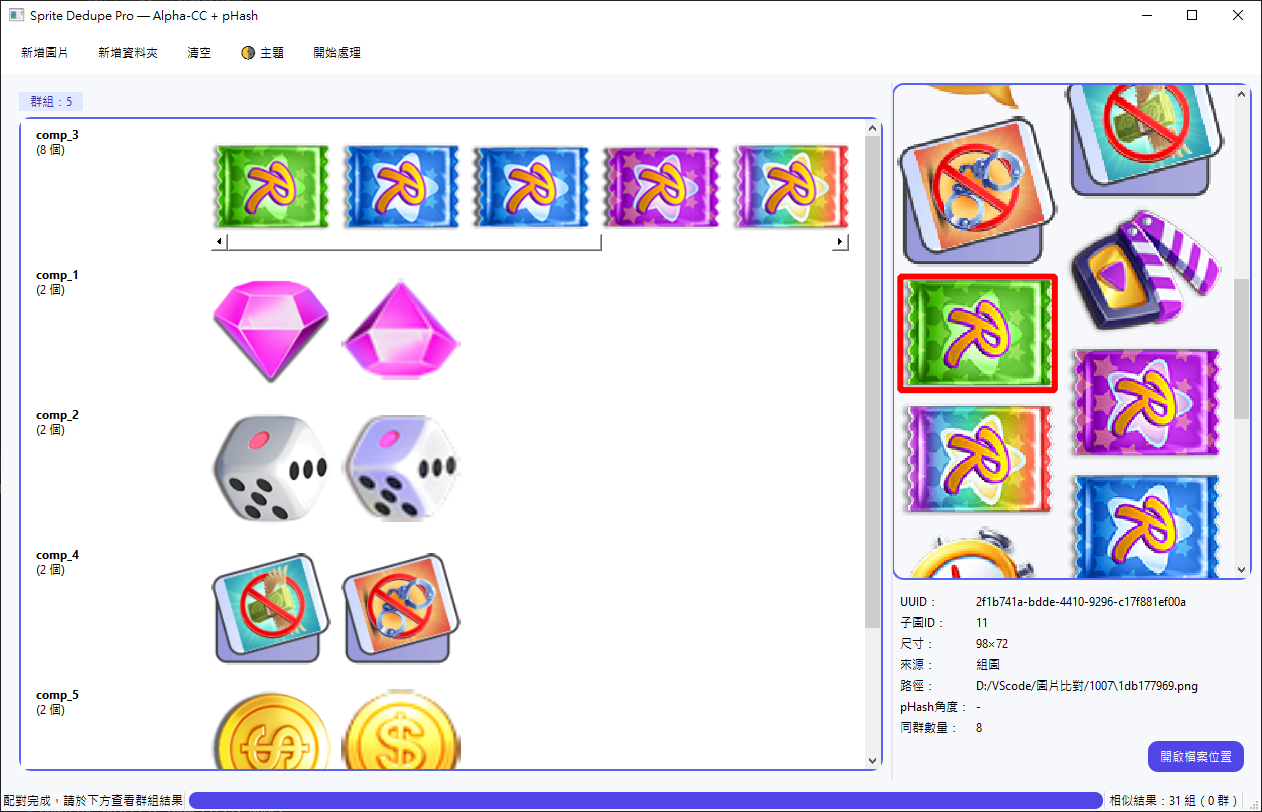
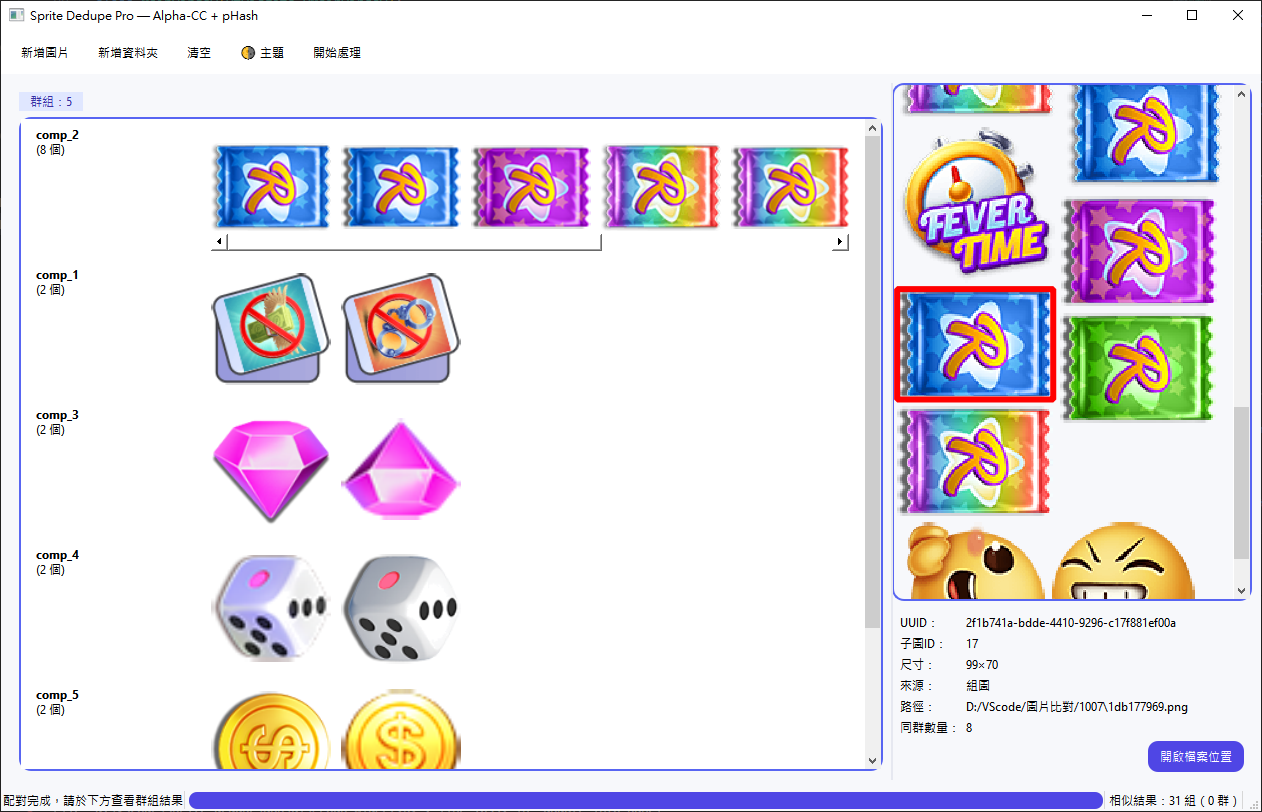
fix: sync progress bar and remove pHash angle + docs update

diff --git a/app/ui/main_window.py b/app/ui/main_window.py
@@ -144,6 +144,8 @@ class MainWindow(QtWidgets.QMainWindow):
 
         self.list_files.itemSelectionChanged.connect(self._on_file_selected)
 
+        self.progress.setRange(0, 0)
+        self.progress.setValue(0)
 
     def _update_info_panel(self, uuid_: str | None, sub_id: int | None, group_id: str | None):
         """將目前選擇的成員或群組寫到右側 infoPanel。"""
@@ -1191,7 +1193,6 @@ class MainWindow(QtWidgets.QMainWindow):
                 self.group_view.info_size,
                 self.group_view.info_source,
                 self.group_view.info_path,
-                self.group_view.info_angle,
                 self.group_view.info_count,
             ),
         )
@@ -1615,7 +1616,10 @@ class MainWindow(QtWidgets.QMainWindow):
         if not self._input_order:
             QtWidgets.QMessageBox.information(self, "提示", "請先新增圖片。")
             return
-            
+        
+        self.progress.setRange(0, 0)
+        self.progress.setValue(0)
+                    
         self.items_raw.clear()
         self.id2item.clear()
         total = len(self._input_order)
@@ -1681,6 +1685,22 @@ class MainWindow(QtWidgets.QMainWindow):
                 it.keep = None
                 self.pool.append(it); self.id2item[it.id] = it
 
+        steps_read  = len(self._input_order)      
+        steps_alpha = total_items                 
+        N           = len(self.pool)               
+        steps_feat  = N                         
+        steps_pairs = (N * (N - 1)) // 2         
+
+        total_steps = steps_read + steps_alpha + steps_feat + steps_pairs
+        if total_steps <= 0:
+            total_steps = 1
+
+        self.progress.setRange(0, total_steps)
+
+        done = steps_read + steps_alpha
+        self.progress.setValue(done)
+        QtWidgets.QApplication.processEvents()
+
         phash_primary: Dict[str, int]    = {}
         phash_secondary: Dict[str, int]  = {}
         phash_u: Dict[str, int]          = {}
@@ -1701,6 +1721,10 @@ class MainWindow(QtWidgets.QMainWindow):
 
             area_map[it.id]  = content_area_ratio(it.rgba, self.alpha_thr)
             hgram_map[it.id] = gray_hist32(it.rgba, self.alpha_thr)
+
+            done += 1
+            if self.progress.maximum() > 0:
+                self.progress.setValue(done)
 
         if getattr(self, "features", None) and getattr(self, "project_root", None):
             temp_id_map = {i.id: i for i in self.pool}
@@ -1811,6 +1835,10 @@ class MainWindow(QtWidgets.QMainWindow):
                 self.in_pair_ids.update([A.id, B.id])
                 self.pairs.append(PairHit(A.id, B.id, best))
 
+                done += 1
+                if self.progress.maximum() > 0:
+                    self.progress.setValue(done)
+
         if getattr(self, "project_root", None):
             write_results(self.project_root, self.pairs, self.id2item)
         if hasattr(self, "group_view"):
@@ -1821,6 +1849,8 @@ class MainWindow(QtWidgets.QMainWindow):
         self.lb_pairs.setText(f"相似結果：{len(self.pairs)} 組（{group_cnt} 群）")
         self.sb_text.setText("配對完成，請於下方查看群組結果")
         self._refresh_file_list_grouped_mode()
+        if self.progress.maximum() > 0:
+            self.progress.setValue(self.progress.maximum())
 
     def on_export(self):
         if not self.pool:

diff --git a/app/ui/group_widget.py b/app/ui/group_widget.py
@@ -867,7 +867,6 @@ class GroupResultsWidget(QtWidgets.QWidget):
         self.info_size   = QtWidgets.QLabel("-")
         self.info_source = QtWidgets.QLabel("-")
         self.info_path   = QtWidgets.QLabel("-")
-        self.info_angle  = QtWidgets.QLabel("-")
         self.info_count  = QtWidgets.QLabel("-")
         
         form.addRow("UUID：",       self.info_uuid)
@@ -875,7 +874,6 @@ class GroupResultsWidget(QtWidgets.QWidget):
         form.addRow("尺寸：",       self.info_size)
         form.addRow("來源：",       self.info_source)
         form.addRow("路徑：",       self.info_path)
-        form.addRow("pHash角度：",  self.info_angle)
         form.addRow("同群數量：",    self.info_count)
         
         outer.addLayout(form)
@@ -998,7 +996,7 @@ class GroupResultsWidget(QtWidgets.QWidget):
         """將目前選擇的成員或群組寫到右側 infoPanel。"""
         if not self._info_labels:
             return
-        lab_uuid, lab_child, lab_size, lab_origin, lab_path, lab_phash, lab_dups = self._info_labels
+        lab_uuid, lab_child, lab_size, lab_origin, lab_path, lab_dups = self._info_labels
         def set_(w, v): w.setText(str(v) if w else "-")
 
         if uuid_ is None and group_id:
@@ -1009,12 +1007,11 @@ class GroupResultsWidget(QtWidgets.QWidget):
             set_(lab_size,  "-")
             set_(lab_origin, "群組")
             set_(lab_path,   group_id)
-            set_(lab_phash,  "-")
             set_(lab_dups,   len(mems) if mems else "-")
             return
 
         if not uuid_:
-            for w in (lab_uuid, lab_child, lab_size, lab_origin, lab_path, lab_phash, lab_dups):
+            for w in (lab_uuid, lab_child, lab_size, lab_origin, lab_path, lab_dups):
                 set_(w, "-")
             return
 
@@ -1058,8 +1055,6 @@ class GroupResultsWidget(QtWidgets.QWidget):
             set_(lab_dups, len(grp.get("members", [])) if grp else "-")
         else:
             set_(lab_dups, "-")
-
-        set_(lab_phash, "-")
 
 
 
